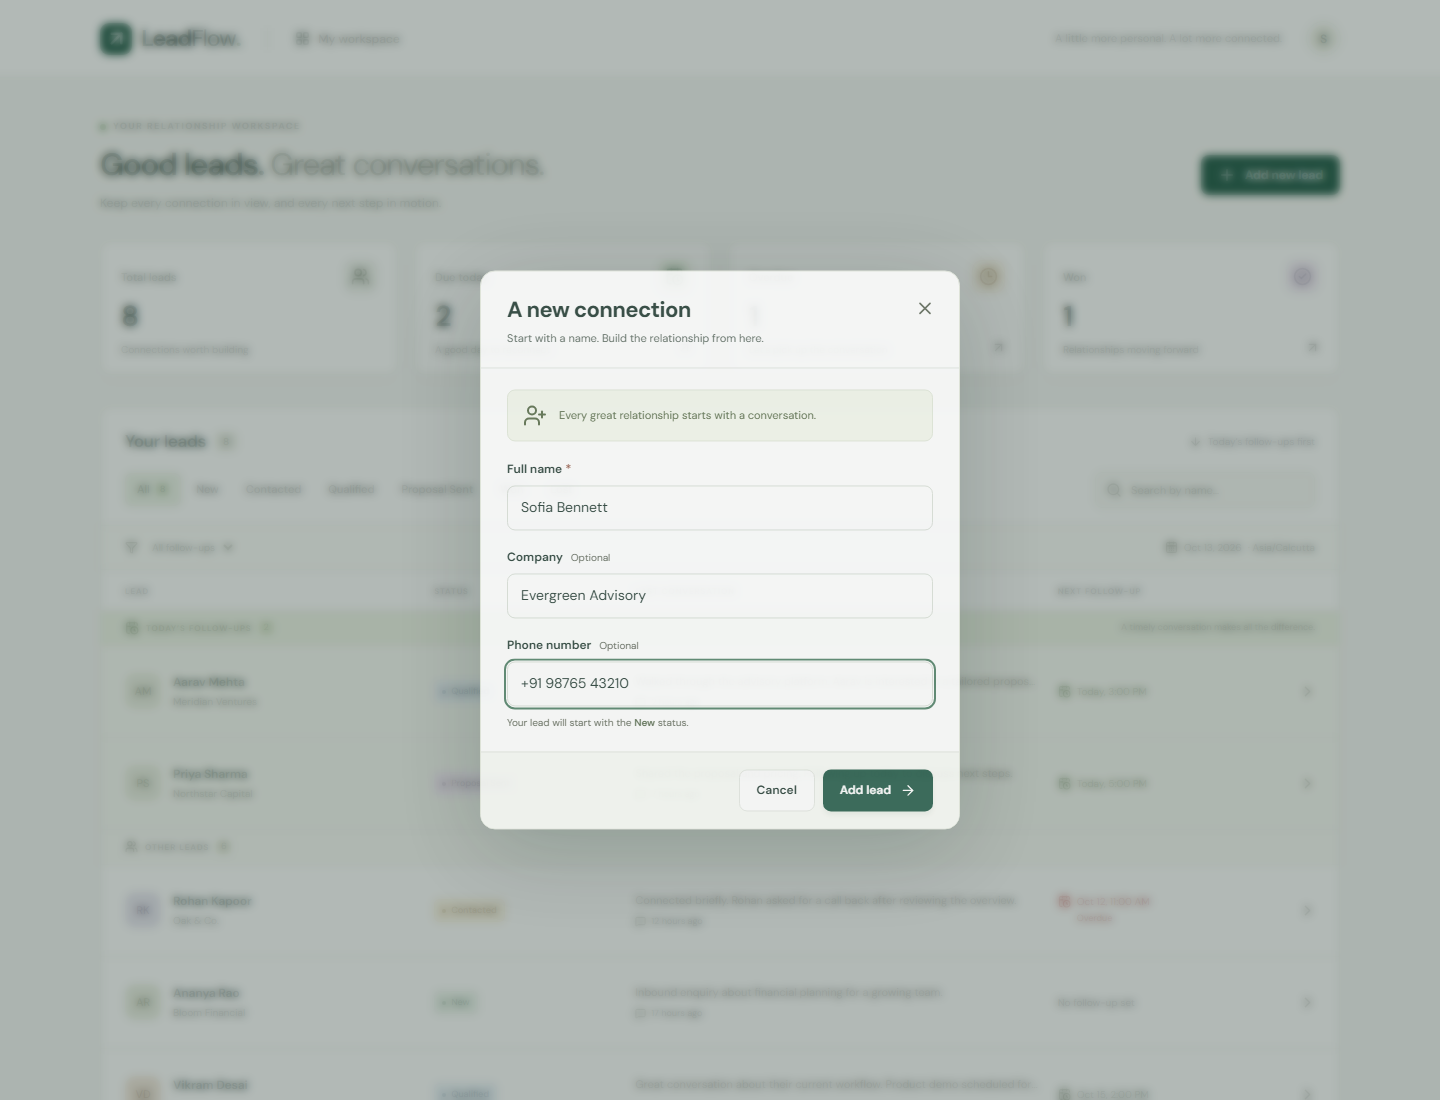
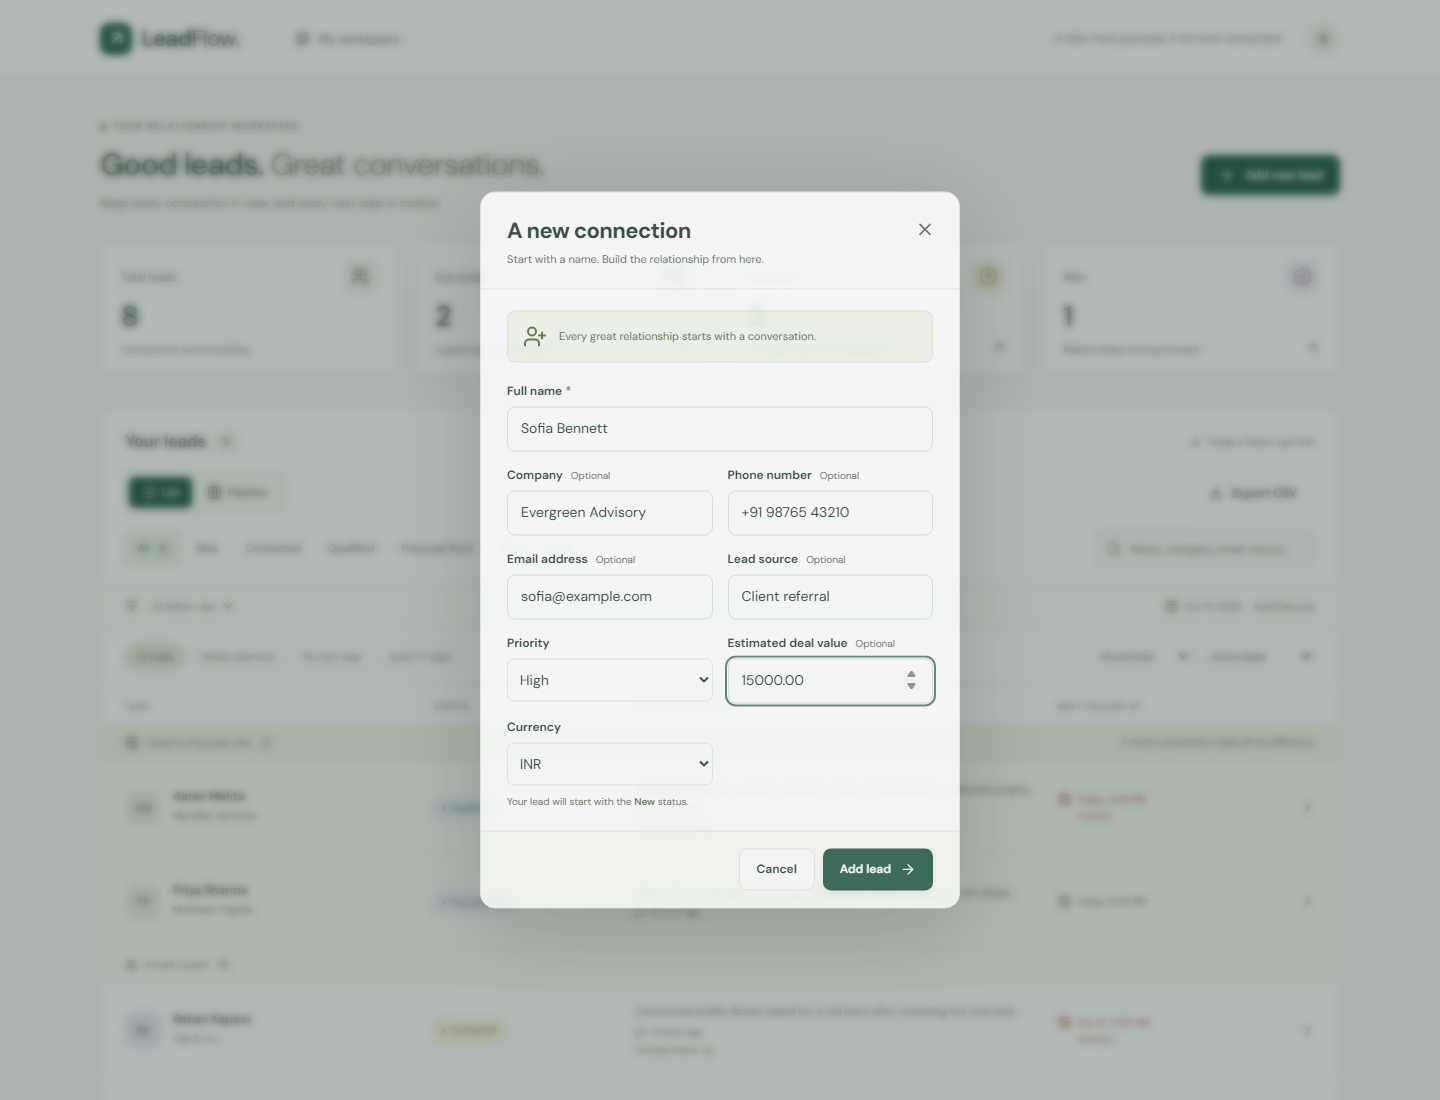
Document CRM productivity features, sources and verified upgrade

diff --git a/README.md b/README.md
@@ -2,6 +2,8 @@
 
 A single-screen lead management workspace for tracking conversations and following through. Built with Next.js, React, FastAPI, SQLAlchemy, and PostgreSQL. SQLite provides a zero-service local setup.
 
+Includes a sales pipeline, editable contact profiles, priority and attention views, typed activity history, standalone follow-up scheduling, calendar downloads, filtered CSV export, and reversible archiving. The [product decisions](docs/PRODUCT_DECISIONS.md) explain the inspiration from Pipedrive, HubSpot, and Close, and define each feature's behavior.
+
 ![LeadFlow workspace](docs/screenshots/01-workspace.png)
 
 ## Run with Docker
@@ -73,12 +75,18 @@ To verify/run an optimized frontend, stop the frontend development server, then 
 
 ## Working flow
 
-1. **Add new lead**: name is required; company and phone are optional. A lead starts as **New**.
+1. **Add new lead**: name is required. Company, phone, email, source, and estimated deal value are optional; choose priority and currency. A lead starts as **New**.
 2. **Open a lead**: the dialog shows the most recent discussion first. Older history can be loaded without leaving the screen.
-3. **Save a discussion**: enter a note and optionally set a follow-up date/time. The list and workspace totals refresh immediately after the server confirms the transaction.
+3. **Save an activity**: choose Note, Call, Email, or Meeting, enter a discussion, and optionally set a follow-up date/time. The list and workspace totals refresh after the server confirms the transaction. Activity types record work; they do not send messages or place calls.
 4. **Update status**: choose New, Contacted, Qualified, Proposal Sent, Won, or Lost in the dialog. Changes persist immediately.
 5. **Follow through**: today's reminders stay at the top, overdue reminders are red and explicitly labelled, and **Mark complete** clears the current reminder without deleting historical notes.
-6. Search by name, filter by status, and filter by due/overdue reminders. Filters combine. List pages contain at most 25 leads.
+6. Search name, company, email, or source. Combine status, reminder, priority, attention, and visibility filters. List pages contain at most 25 leads.
+7. Switch to **Pipeline** for stage columns, each with its own pagination and complete matching count/value totals. Move leads with the stage selector. Estimated amounts remain separated by currency.
+8. Use **Needs attention**, **No next step**, or **Quiet 7+ days** to focus on open, active leads. The interface explains the conditions, including overdue follow-ups and the date of the last logged activity.
+9. Open **Lead details** to edit a contact or archive it. Use the Archived leads visibility filter to find and restore archived records; history is preserved.
+10. Use **Schedule follow-up** independently of a discussion. Download a 15-minute calendar event with **Calendar (.ics)**, or use **Export CSV** for all leads matching the current filters (maximum 10,000).
+
+![Sales pipeline](docs/screenshots/05-pipeline.png)
 
 ![Discussion timeline](docs/screenshots/02-timeline.png)
 
@@ -94,9 +102,12 @@ To verify/run an optimized frontend, stop the frontend development server, then 
 - Past follow-up dates are allowed for recording existing commitments and are marked overdue. Nonexistent local times during a spring daylight-saving transition are rejected. For a repeated local time in autumn, the browser Date conversion selects the earlier occurrence.
 - A discussion and its lead/reminder/version update commit in one database transaction. Stale versions receive `409 Conflict`; the UI refreshes details and preserves the draft for review and retry.
 - Lead and discussion creation use client-generated UUID request IDs. An unchanged retry does not create a duplicate, even if the initial response was lost. Reusing an ID with different content returns `409`.
-- Search is a case-insensitive literal name substring match; SQL wildcard characters are escaped. ASCII case folding is portable across SQLite/PostgreSQL; linguistic Unicode folding follows the database collation.
+- Search is a case-insensitive literal substring match across name, company, email, and source; SQL wildcard characters are escaped. ASCII case folding is portable across SQLite/PostgreSQL; linguistic Unicode folding follows the database collation.
 - Input is length-bounded and validated on the server. Discussion text is rendered as plain text. Drafts are held in browser memory and a close confirmation protects unsaved discussions; a page reload or expired session discards unsaved input.
-- Follow-ups are in-app reminders. The assignment does not request email, push notifications, or background delivery, so none are sent.
+- Follow-ups are in-app reminders with optional calendar file export. Calendar imports are manual and do not synchronize automatically; background email/push delivery is not configured.
+- Profile edits, archiving, pipeline moves, and reminder changes all require the current record version. Profile conflicts require explicit reload and review; discussion drafts survive conflicts for retry.
+- CSV exports use the same filters as list and pipeline views and include all matching pages. They quote cells and neutralize spreadsheet formulas. More than 10,000 matches returns a clear error instead of a partial export.
+- Estimated deal values use nonnegative decimals with two decimal places. Totals are grouped by currency; there is no conversion or predicted revenue. PostgreSQL is recommended for exact production financial storage and aggregation.
 
 ## Configuration
 
@@ -181,12 +192,14 @@ npm audit --audit-level=high
 
 | Endpoint | Behavior |
 | --- | --- |
-| `GET /api/leads` | Paginated leads, search/status/reminder filters, counts, timezone-aware ordering |
+| `GET /api/leads` | Paginated leads; search/status/reminder/priority/attention/archive filters; counts and totals by currency |
+| `GET /api/leads/export.csv` | All matching leads as UTF-8 CSV; maximum 10,000 |
 | `POST /api/leads` | Create lead (`201`); identical retried request (`200`) |
 | `GET /api/leads/{id}` | Lead detail and latest discussion |
-| `PATCH /api/leads/{id}` | Change status or reminder with `expected_version` |
+| `PATCH /api/leads/{id}` | Edit contact, opportunity, status, reminder, or archive state with `expected_version` |
 | `GET /api/leads/{id}/discussions` | Reverse-chronological, paginated discussion history |
-| `POST /api/leads/{id}/discussions` | Atomically save note and optional reminder (`201`) |
+| `POST /api/leads/{id}/discussions` | Atomically save typed activity and optional reminder (`201`) |
+| `GET /api/leads/{id}/reminder.ics` | Download current follow-up as a calendar event; `404` if none is scheduled |
 | `GET /api/auth/session` | Session and authentication-mode state |
 | `POST /api/auth/login`, `POST /api/auth/logout` | Shared workspace session |
 | `GET /api/health/live`, `GET /api/health/ready` | Process/database readiness |

diff --git a/docs/PRODUCT_DECISIONS.md b/docs/PRODUCT_DECISIONS.md
@@ -1,0 +1,32 @@
+# Productivity upgrade
+
+The upgrade builds on the assignment's persistent leads, discussion history, and reminders. It addresses everyday sales work: deciding whom to contact, understanding an opportunity, keeping its next action current, and handing data to tools already in use.
+
+## Sources of inspiration
+
+Reviewed official product pages on 13 October 2026. These are product references, not endorsements or claims of feature parity. LeadFlow's code and interface are its own implementation.
+
+| Reference | Relevant pattern | LeadFlow implementation |
+| --- | --- | --- |
+| [Pipedrive features](https://www.pipedrive.com/en/features) | Visual pipeline management and activity-based selling | Six-stage pipeline with direct stage changes, per-stage pagination, counts, and estimated values |
+| [HubSpot CRM](https://www.hubspot.com/products/crm) | Editable contact records, communication history, task management | Rich contact profiles and a unified history with Note, Call, Email, and Meeting activity types |
+| [Close features](https://www.close.com/features) | Lead management and follow-up-focused sales workflows | Combined attention filters, explicit next steps, and independent reminder scheduling |
+
+## Features and exact behavior
+
+- **Pipeline:** switch between list and board without leaving the workspace. Each lane loads 20 leads at a time; its count and amount totals include every matching lead, including unloaded pages. A labelled stage selector supports keyboard and touch. Stage changes share the same version checks and server state as the original dialog.
+- **Contact profiles:** edit name, company, phone, validated email, lead source, priority, estimated value, and currency. Empty optional fields clear explicitly. A stale profile cannot overwrite another session's changes: its draft stays visible until the user reloads and reviews the saved record.
+- **Attention:** `No next step` means no scheduled follow-up. `Quiet 7+ days` means at least seven elapsed days since the latest logged activity, or creation if there is no activity. Editing a contact does not reset that clock. `Needs attention` combines those conditions with an overdue reminder. These views exclude Won, Lost, and archived leads. They are factual conditions, with explanations on each lead.
+- **Priority:** Low, Normal, and High are explicitly chosen by the user. No inferred scoring or win probability is presented.
+- **Values:** optional nonnegative amounts with two decimal places, in INR, USD, EUR, or GBP. PostgreSQL stores decimal values exactly. Totals are grouped by currency with no implied exchange rate or revenue prediction. Use PostgreSQL for production financial precision; SQLite uses numeric affinity internally.
+- **Activity types:** Note, Call, Email, and Meeting classify records of completed activity. Selecting Email does not send a message; selecting Call does not place a call.
+- **Reminders:** schedule or reschedule independently of a discussion, including shortcuts for tomorrow or seven days later at 9 AM in the browser's timezone. Closing or switching tabs checks for an unsaved reminder draft. Previous discussion reminders remain historical records.
+- **Calendar:** download the current reminder as a standards-based `.ics` event lasting 15 minutes. Dates are UTC, text is escaped, and long UTF-8 lines are folded. The lead supplies a stable event UID and changing sequence number. Import into a calendar manually; subsequent LeadFlow edits require a new download. Handling of reimported events depends on the calendar application. There is no automatic synchronization or notification delivery service.
+- **Export:** CSV includes all leads matching the current search/status/reminder/priority/attention/archive filters, across pages. It includes contact and opportunity fields, not discussion bodies. Exports exceeding 10,000 rows are rejected with a request to narrow filters. UTF-8, quoted cells, and spreadsheet-formula neutralization preserve interoperability. Formula-like text, including phone numbers beginning with `+`, receives a protective leading apostrophe.
+- **Archive:** hides a lead from active views while preserving all history. Archived records remain available through the visibility filter and can be restored. This is reversible, not deletion; a calendar copy already downloaded is unaffected.
+
+## Upgrade and scope
+
+Migration `0002` adds fields with backward-compatible defaults: Normal priority, INR currency, active visibility, and Note activity type. Optional contact/value fields start empty. It preserves existing leads, versions, reminders, and discussion records. SQLite table rebuilds preserve the original status/version constraints and verify foreign-key integrity; PostgreSQL uses normal transactional schema changes. Back up the database before deployment. Downgrading removes the new fields, so restore a backup if their contents must be retained.
+
+These improvements retain the shared-workspace security model. Individual accounts, ownership, team permissions, email delivery, telephony, automated sequences, and calendar OAuth integrations would require separate designs and credentials. No external communications are sent by this upgrade.

diff --git a/docs/VERIFICATION.md b/docs/VERIFICATION.md
@@ -4,9 +4,9 @@ Validated on **13 October 2026**. These are executed checks, not inferred result
 
 | Check | Result |
 | --- | --- |
-| Python API suite, SQLite, Windows/Python 3.13 | 38 passed |
-| Same API suite against PostgreSQL 17 in a Linux Docker container | 38 passed |
-| Production browser suite, desktop and mobile Chromium | 16 passed, including accessibility and pagination recovery |
+| Python API suite, SQLite, Windows/Python 3.13 | 60 passed |
+| Same API suite against PostgreSQL 17 in a Linux Docker container | 60 passed |
+| Production browser suite, desktop and mobile Chromium | 28 passed, including productivity workflows, accessibility, pagination, and full-board overflow |
 | Next.js optimized production build | Passed locally and in the Linux container build |
 | TypeScript, ESLint, Prettier | Passed |
 | Ruff lint and formatting | Passed |
@@ -15,13 +15,21 @@ Validated on **13 October 2026**. These are executed checks, not inferred result
 | Docker Compose build, migrations, startup, readiness | Passed; database, API, and web reported healthy |
 | Seed script | Eight leads and fourteen discussions; repeat invocation does not duplicate or overwrite |
 | Persistence across API/web restart | All eight lead records, including latest discussions and reminders, unchanged |
-| Submission screenshots | Four real browser captures in `docs/screenshots/` |
+| Populated database upgrade | PostgreSQL migration to `0002` preserved all fields of eight existing leads and fourteen discussions; local backup captured before upgrade |
+| SQLite upgrade/downgrade with existing history | Passed, including foreign-key integrity and status/version/value constraints |
+| Submission screenshots | Five real browser captures in `docs/screenshots/`, including the pipeline |
 
 The browser suite exercises the production frontend through the same-origin API proxy. It uses its own migrated SQLite database and an enabled password gate. Coverage includes login/logout and session persistence; creating a lead; saving discussions and follow-ups; changing status; reloading and confirming persistence; completing reminders without erasing history; search/status/reminder filters; failed-save draft retention; conflict recovery; keyboard focus restoration; pagination recovery when results shrink; and horizontal overflow checks. Both a 1440px desktop viewport and an iPhone-sized Chromium viewport are covered.
 
+The productivity tests exercise rich profile edits, conflicts requiring explicit reload, typed activities, archive/restore with history preservation, combined priority/source/attention filters, pipeline stage changes and totals, per-stage pagination beyond 20 leads, CSV downloads, and independent reminder scheduling with real calendar downloads. A full, unfiltered board regression checks both document width and mobile viewport width while keeping horizontal scrolling inside the board.
+
 Accessibility scans use axe's WCAG 2 A/AA and WCAG 2.1 AA rules on the login, workspace, add-lead dialog, and timeline. The scan runs with reduced motion enabled so animation frames do not distort color-contrast measurements. The suite also checks focus behavior explicitly. These automated checks are useful evidence, not a substitute for a full manual assistive-technology audit.
 
+Additional axe scans cover the profile editor and pipeline. Keyboard checks include arrow navigation between the lead information tabs. Screenshots are captured from the running Compose application and inspected visually.
+
 API coverage includes UTC serialization, IANA timezone boundaries, 23/25-hour daylight-saving days, reminder ordering before pagination, literal wildcard search, deterministic history ordering, validation failures, transaction rollback on stale edits, retry idempotency, CSRF controls, login throttling, tampered/expired cookies, secure production configuration, migration upgrade/downgrade, and repeatable seeds.
+
+New API checks cover decimal amounts, email/priority/currency validation, explicit clearing of optional fields, new-field idempotency, archive visibility, attention thresholds and closed-lead exclusion, totals across pages and currencies, shared export filters, spreadsheet-formula neutralization, the 10,000-row export limit, authenticated downloads, and escaped UTF-8 calendar events with UTC times and stable identities.
 
 The public [GitHub Actions workflow](https://github.com/vatsal2025/leadflow/actions/workflows/ci.yml) independently runs the SQLite and PostgreSQL suites, frontend checks, browser tests, dependency audits, and a full Compose smoke test from a clean Linux checkout.
 
